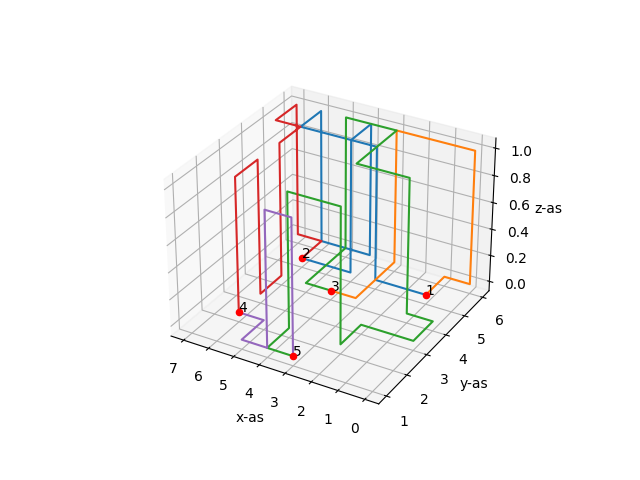
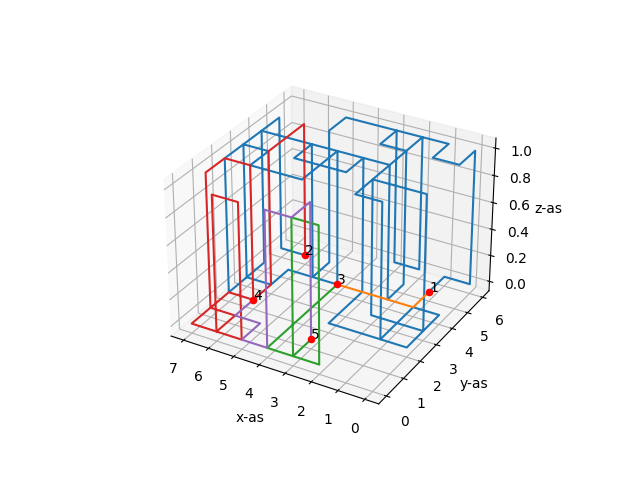
Testing the amount of intersections in main

diff --git a/code/classes/grid.py b/code/classes/grid.py
@@ -169,9 +169,6 @@ class Grid():
         """
 
         if self.current_crossing.add_blockade(direction):
-            intersection = self.current_crossing.set_visited()
-            if intersection == False:
-                self.amount_of_intersections += 1
 
             # retrieve new crossing object at right location
             current_coordinates = self.current_crossing.get_coordinates()
@@ -181,6 +178,7 @@ class Grid():
                 new_y_coordinate = current_coordinates[1] - 1
 
                 new_crossing = self.grid[current_coordinates[2]][new_y_coordinate][current_coordinates[0]]
+                already_intersection = new_crossing.intersection
                 new_crossing.add_blockade('S')
 
             # if direction if north, y coordinate goes up by one (may seem weird, has to do with indexing)
@@ -188,6 +186,7 @@ class Grid():
                 new_y_coordinate = current_coordinates[1] + 1
 
                 new_crossing = self.grid[current_coordinates[2]][new_y_coordinate][current_coordinates[0]]
+                already_intersection = new_crossing.intersection
                 new_crossing.add_blockade('N')
 
             # if direction if east, x coordinate goes up by one
@@ -195,6 +194,7 @@ class Grid():
                 new_x_coordinate = current_coordinates[0] + 1
 
                 new_crossing = self.grid[current_coordinates[2]][current_coordinates[1]][new_x_coordinate]
+                already_intersection = new_crossing.intersection
                 new_crossing.add_blockade('W')
                 
             # if direction if west, x coordinate goes down by one
@@ -202,6 +202,7 @@ class Grid():
                 new_x_coordinate = current_coordinates[0] - 1
 
                 new_crossing = self.grid[current_coordinates[2]][current_coordinates[1]][new_x_coordinate]
+                already_intersection = new_crossing.intersection
                 new_crossing.add_blockade('E')
                 
             # if direction is up, z coordinate goes up by one
@@ -209,6 +210,7 @@ class Grid():
                 new_z_coordinate = current_coordinates[2] + 1
 
                 new_crossing = self.grid[new_z_coordinate][current_coordinates[1]][current_coordinates[0]]
+                already_intersection = new_crossing.intersection
                 new_crossing.add_blockade('D')
                 
             # if direction is down, z coordinate goes down by one
@@ -216,10 +218,16 @@ class Grid():
                 new_z_coordinate = current_coordinates[2] - 1
 
                 new_crossing = self.grid[new_z_coordinate][current_coordinates[1]][current_coordinates[0]]
+                already_intersection = new_crossing.intersection
                 new_crossing.add_blockade('U')
 
             self.current_net.add_crossing(new_crossing)
             self.current_crossing = new_crossing
+
+            # count if intersection is created
+            if not already_intersection:
+                if self.current_crossing.intersection:
+                    self.amount_of_intersections += 1
 
             # react accordingly if crossing is the end of the net
             if self.current_net.finished:
@@ -233,8 +241,7 @@ class Grid():
                     self.current_net = None
                     self.current_crossing = None
 
-            return True  
-        return False
+            return True
 
         # if a non-valid direction is passed, return false
         return False
@@ -248,6 +255,8 @@ class Grid():
 
         if steps > net.get_length() or steps < 0:
             steps = net.get_length() - 1
+        
+        # remove the last crossing from the net as many times as is necessary
         while steps > 0:
             self.delete_last_crossing(net)
             steps  -= 1
@@ -275,7 +284,7 @@ class Grid():
         z_difference = last_crossing_coordinates[2] - second_last_crossing_coordinates[2]
 
         # check if last of second last crossing is an intersection
-        check_last_crossing, check_second_last_crossing = last_crossing.intersection, second_last_crossing.intersection
+        check_last_crossing = last_crossing.intersection
 
         # removes the blockades on both crossings
         if x_difference < 0:
@@ -300,9 +309,6 @@ class Grid():
         # adjusts amount of intersections accordingly
         if check_last_crossing == True:
             if last_crossing.intersection == False:
-                self.amount_of_intersections -= 1
-        if check_second_last_crossing == True:
-            if second_last_crossing.intersection == False:
                 self.amount_of_intersections -= 1
 
         # deletes the last crossing object in the net

diff --git a/code/classes/crossing.py b/code/classes/crossing.py
@@ -9,7 +9,8 @@ class Crossing():
         self.is_gate = False
         self.location = (x_coordinate, y_coordinate, z_coordinate)
         self.directions = ['N', 'S', 'E', 'W', 'U', 'D']
-        self.visited = 0
+        self.initial_amount_of_directions = 6
+        # self.visited = 0
         self.intersection = False
 
         self.set_directions(grid_size)
@@ -38,6 +39,8 @@ class Crossing():
         elif self.location[2] == (grid_size[2] - 1):
             self.directions.remove('U')
 
+        self.initial_amount_of_directions = len(self.directions)
+
     def __repr__(self):
         if self.name:
             return f"Gate-{self.name}"
@@ -57,11 +60,16 @@ class Crossing():
         """
         Takes a letter that represents a direction (N,S,E,W,U or D)
         Removes that letter from the list of directions
-        Returns false if location wasn't an option anyway
+        Returns false if location wasn't an option
         """
 
         if direction in self.directions:
             self.directions.remove(direction)
+
+            # check if crossing has become an intersection
+            if (self.initial_amount_of_directions - len(self.directions)) >= 3 and self.intersection == False and not self.is_gate:
+                self.intersection = True
+
             return True
         return False
 
@@ -74,22 +82,20 @@ class Crossing():
         if direction not in self.directions:
             self.directions.append(direction)
 
-        if self.visited > 0:
-            self.visited -= 1
-            if self.visited < 2:
-                self.intersection = False
+        if (self.initial_amount_of_directions - len(self.directions)) < 3 and self.intersection == True and not self.is_gate:
+            self.intersection = False
 
-    def set_visited(self):
-        """
-        Sets visited variable of crossing to true, if crossing was already visited, sets intersection to true
-        Returns true if no intersection is created, else returns false (gates don't count as intersection)
-        """
+    # def set_visited(self):
+    #     """
+    #     Sets visited variable of crossing to true, if crossing was already visited, sets intersection to true
+    #     Returns true if no intersection is created, else returns false (gates don't count as intersection)
+    #     """
 
-        self.visited += 1
-        if self.visited > 1 and not self.is_gate and self.intersection == False:
-            self.intersection = True
-            return False
-        return True
+    #     self.visited += 1
+    #     if self.visited > 1 and not self.is_gate and self.intersection == False:
+    #         self.intersection = True
+    #         return False
+    #     return True
 
     def get_coordinates(self):
         """

diff --git a/main.py b/main.py
@@ -2,6 +2,9 @@ from code.classes import grid, crossing, net
 from code.visualisation import visualise as vis
 from code.algorithms import random
 
+### REMOVE LATER
+from csv import reader
+
 if __name__ == "__main__":
     
     # create grid object
@@ -10,4 +13,36 @@ if __name__ == "__main__":
     # Testing random algorithm
     r = random.Random(grid)
 
+    # coordinates1 = []
+    # for height in r.grid.grid:
+    #     for column in height:
+    #         for element in column:
+    #             if element.intersection == True:
+    #                 coordinates1.append(element.get_coordinates())
+    # print(f"coordinates are {coordinates1}, total = {len(coordinates1)}")
+
     vis.visualise("./data/example/print_0.csv", "./data/example/our_output.csv")
+
+    # double checking costs calculation
+    with open("./data/example/our_output.csv") as file:
+
+        # read through file
+        file_reader = reader(file)
+
+        # skip the header
+        next(file_reader, None)
+        
+        # save information in variables
+        coordinates = []
+        intersections = 0
+        bla = []
+        for row in file_reader:
+            if row[0][0:4] != 'chip':
+                path = row[1].strip("[]()").split("),(")
+                for element in path:
+                    if element in coordinates and element not in bla:
+                        intersections += 1
+                        bla.append(element)
+                    else:
+                        coordinates.append(element)
+        print(intersections, bla)
